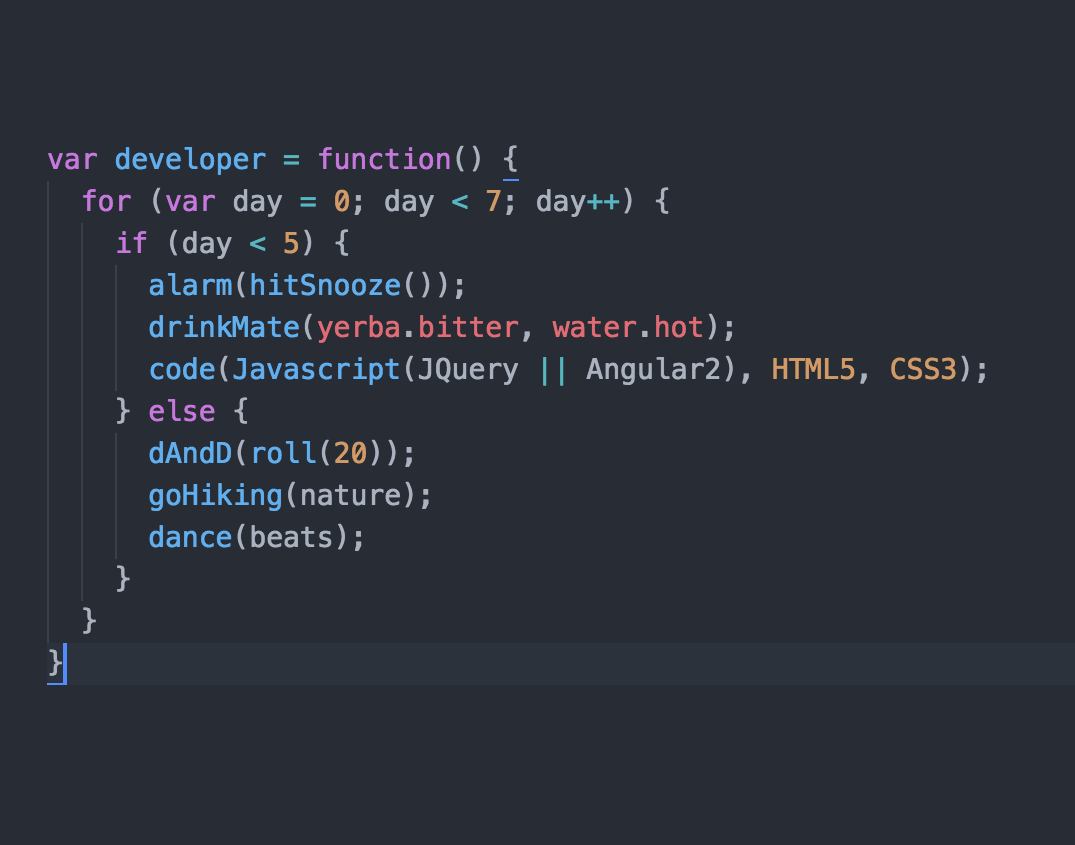
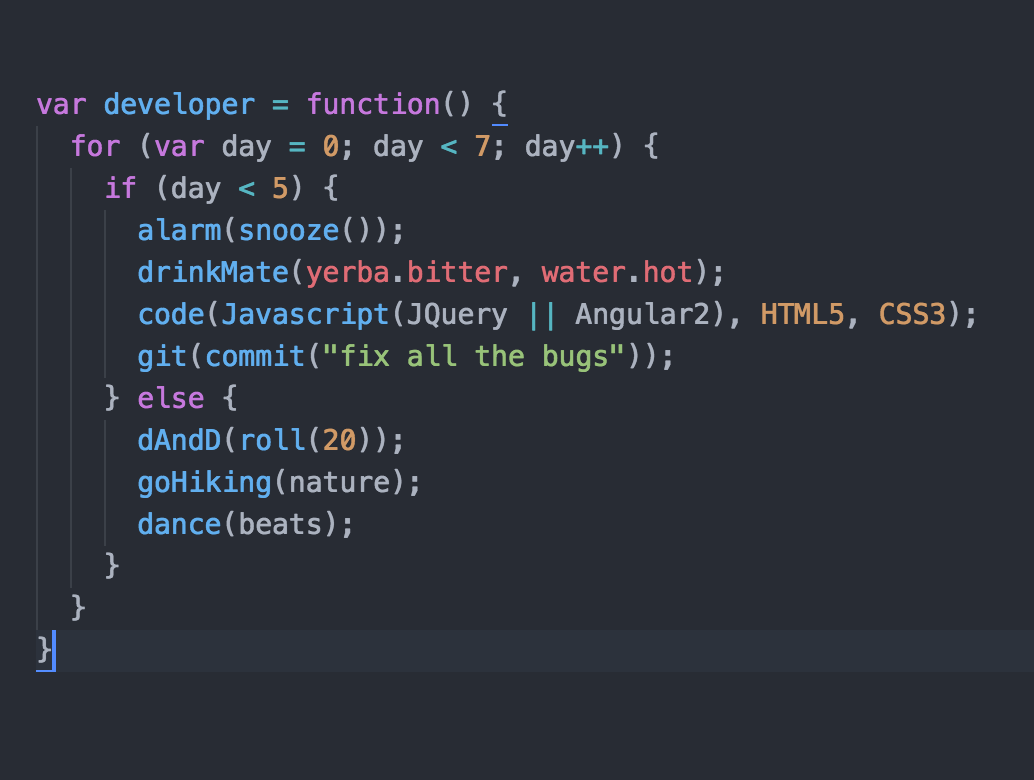
touch up copy writing

Changed region(s): [[0.0309, 0.1231, 0.9284, 0.8615], [0.619, 0.1846, 0.6499, 0.2154]]

diff --git a/portfolio/index.html b/portfolio/index.html
@@ -67,7 +67,7 @@
                 I am <span class="bold">currently available</span> for freelance work.
               </h4>
               <h4>
-                <a class="bold" href="mailto:ejlaw01@gmail.com">
+                <a class="bold scroll" href="#footer">
                   Contact
                 </a>
                 me and we can work together.
@@ -106,9 +106,8 @@
               <div class="project-content">
                 <div class="project-text">
                   <h2>5e Character Generator</h2>
-                  <p>This web app does the heavy lifting for users in creating a lvl 1 character playing a tabletop role-playing game like Dungeons &amp; Dragons</p>
-                  <p>I created the logo and worked on the business logic and user interface logic in Javascript, as well as data entry of all the equipment/properties with JS objects.</p>
-                  <!-- <p>Future features include supporting more classes, automatically generating backgrounds, and printing the statistics directly onto a character sheet.</p> -->
+                  <p>This web app does the heavy lifting for users in creating a level 1 player character in a tabletop role-playing game like Dungeons &amp; Dragons.</p>
+                  <p>I wrote much of the business logic and UI logic, created the logo, and made the page mobile responsive. I'm currently working on supporting more classes and printing stats directly onto a character sheet.</p>
                   <a class="underline" href="https://newkirks.github.io/Character-Generator" target="_blank">
                     Live Webpage
                   </a>
@@ -133,8 +132,8 @@
               <h2>Ethan's Cold-Brewed<br>Yerba Mate</h2>
               <div class="project-content">
                 <div class="project-text">
-                  <p>I created this mock product page for a yerba mate beverage I would like to see on the market.</p>
-                  <p>I designed the site, wrote the copy and created the logo. The site is mostly just HTML and CSS with Sass and Bourbon, plus a little Javascript for the in-progress animation.</p>
+                  <p>I created this mock product page for a yerba mate beverage I would like to one day see on the market.</p>
+                  <p>I designed and coded the site, wrote the copy and created the logo. Languages used are HTML, CSS w/ Sass &amp; Bourbon, and Javascript w/ JQuery.</p>
                   <a class="underline" href="https://ejlaw01.github.io/cold-brew-mate/" target="_blank">
                     Live Webpage
                   </a>
@@ -162,8 +161,8 @@
               <div class="project-content">
                 <div class="project-text">
                   <p>This is a prototype for a website that helps users plan stargazing outings and connect with other amateur astronomers.</p>
-                  <p>I designed all aspects of the site, using Sketch for wireframing and asset creating and inVision for the prototype.</p>
-                  <p> Currently includes a light pollution map, weather, planetary rise and set times, and social aspects.  Functional site is in the works.</p>
+                  <p>I designed all aspects of the site, using Sketch for wireframing and asset creation, and InVision for the interactive prototype.</p>
+                  <p> Includes UI for light pollution map, weather, planetary rise and set times, and social aspects.</p>
                   <a class="underline" href="https://invis.io/3B8PRB4S6#/191302520_Desktop_HD" target="_blank">
                     Interactive Prototype
                   </a>
@@ -216,8 +215,8 @@
           <div class="contact-text">
             <h5>Let's work together.</h5>
             <p>Let me know about a project you're working on or want to get started.</p>
-            <p>I'd be happy to walk you through the steps to building your website, from concept to deployment.</p>
-            <p>Not sure what you need? No worries -- drop me a line and we can figure it out. If it doesn't fit my skills, I'll gladly make a referral. But the sooner we start talking, the sooner your new, beautiful site will be up and running :)</p>
+            <p>I'd be happy to walk you through the steps to building or updating your website, from concept to deployment.</p>
+            <p>Not sure what you need? No worries -- drop me a line and we can figure it out. If my skills don't fit your needs, I'll gladly make a referral. But the sooner we start talking, the sooner your new, beautiful site will be up and running.</p>
             <h6>email:
               <a href="mailto:ejlaw01@gmail.com">ejlaw01@gmail.com</a>
             </h6>
@@ -234,15 +233,15 @@
             </h6>
             <div class="credits">
               <h4>&diams; splash photo by
-                <a href="https://www.facebook.com/WunderfurnPhotography/">Wunderfurn Photography</a>
+                <a target="_blank" href="https://www.facebook.com/WunderfurnPhotography/">Wunderfurn Photography</a>
                 at
-                <a href="http://imagineorcasisland.com">Imagine Music &amp; Arts Festival</a>
+                <a target="_blank" href="http://imagineorcasisland.com">Imagine Music &amp; Arts Festival</a>
                 2016
               </h4>
               <h4>&diams; head shot by
-                <a href="http://www.nikmills.com">Nik Mills</a>
+                <a target="_blank" href="http://www.nikmills.com">Nik Mills</a>
                 for
-                <a href="http://www.nikmills.com/about/">Portland People Photography Project</a>
+                <a target="_blank" href="http://www.nikmills.com/about/">Portland People Photography Project</a>
               </h4>
             </div>
           </div>

diff --git a/portfolio/css/main.css b/portfolio/css/main.css
@@ -212,7 +212,7 @@ a {
       .work-header img {
         height: 40px; } }
     .work-header img:hover {
-      cursor: default; }
+      cursor: pointer; }
 
 .project-wrapper {
   position: relative;
@@ -247,7 +247,7 @@ a {
     display: block;
     margin-left: auto;
     margin-right: auto;
-    height: 300px; }
+    height: 250px; }
   .project-title svg {
     position: relative;
     margin: 35px auto;
@@ -258,8 +258,8 @@ a {
     -webkit-transform: translate(-50%, 0);
     -ms-transform: translate(-50%, 0);
     transform: translate(-50%, 0);
-    top: 425px;
-    border-radius: 3px;
+    top: 385px;
+    border-radius: 1px;
     font-size: 1.4em;
     font-weight: 400;
     letter-spacing: 1px;
@@ -279,10 +279,9 @@ a {
 .light::before {
   opacity: .4; }
 
-.dark a {
-  color: white;
-  border: 2px solid white;
-  background-color: rgba(0, 0, 0, 0.4); }
+.dark::before {
+  background: #777777;
+  opacity: .3; }
 
 .info-wrapper {
   position: absolute;
@@ -376,12 +375,6 @@ a {
   -webkit-background-size: cover;
   -moz-background-size: cover;
   background-size: cover; }
-  #cold-brew .project-title a {
-    color: #ffffff;
-    background: #666666; }
-  #cold-brew a.more {
-    color: #ffffff;
-    background-color: #666666; }
   #cold-brew a.close {
     color: white;
     background: black; }
@@ -391,9 +384,6 @@ a {
   -webkit-background-size: cover;
   -moz-background-size: cover;
   background-size: cover; }
-  #dark-sky a.more {
-    color: black;
-    background: white; }
 
 .about-wrapper {
   position: relative;

diff --git a/portfolio/scss/partials/_project.scss b/portfolio/scss/partials/_project.scss
@@ -14,7 +14,7 @@
       height: 40px;
     }
     &:hover {
-      cursor: default;
+      cursor: pointer;
     }
   }
 }
@@ -45,7 +45,7 @@
     display: block;
     margin-left: auto;
     margin-right: auto;
-    height: 300px;
+    height: 250px;
   }
   svg {
     position: relative;
@@ -55,8 +55,8 @@
   a.more {
     position: absolute;
     @include horizontal-center;
-    top: 425px;
-    border-radius: 3px;
+    top: 385px;
+    border-radius: 1px;
     font-size: 1.4em;
     font-weight: 400;
     letter-spacing: 1px;
@@ -84,10 +84,9 @@
 }
 
 .dark {
-  a {
-    color: white;
-    border: 2px solid white;
-    background-color: rgba(0, 0, 0, .4);
+  &::before {
+    background: #777777;
+    opacity: .3;
   }
 }
 
@@ -182,19 +181,12 @@
 
 #character-generator {
   @include background-image("../img/tiamet.jpg");
+
 }
 
 
 #cold-brew  {
   @include background-image("../img/mate-with-text.png");
-  .project-title a {
-    color: #ffffff;
-    background: #666666;
-  }
-  a.more {
-    color: #ffffff;
-    background-color: #666666;
-  }
   a.close {
     color: white;
     background: black;
@@ -202,9 +194,5 @@
 }
 
 #dark-sky {
-    @include background-image("../img/dark-sky-hero-background.png");
-    a.more {
-      color: black;
-      background: white;
-    }
+  @include background-image("../img/dark-sky-hero-background.png");
 }

diff --git a/portfolio/js/scripts.js b/portfolio/js/scripts.js
@@ -1,18 +1,18 @@
 
-// var developer = function() {
-//   for (var day = 0; day < 7; day++) {
-//     if (day < 5) {
-//       alarm(snooze());
-//       drinkMate(yerba.bitter, water.hot);
-//       code(Javascript(JQuery || Angular2), HTML5, CSS3);
-//       git(commit(""));
-//     } else {
-//       dAndD(roll(20));
-//       goHiking(nature);
-//       dance(beats);
-//     }
-//   }
-// }
+var developer = function() {
+  for (var day = 0; day < 7; day++) {
+    if (day < 5) {
+      alarm(snooze());
+      drinkMate(yerba.bitter, water.hot);
+      code(Javascript(JQuery || Angular2), HTML5, CSS3);
+      git(commit("fix all the bugs"));
+    } else {
+      dAndD(roll(20));
+      goHiking(nature);
+      dance(beats);
+    }
+  }
+}
 
 
 $(document).ready(function(){
